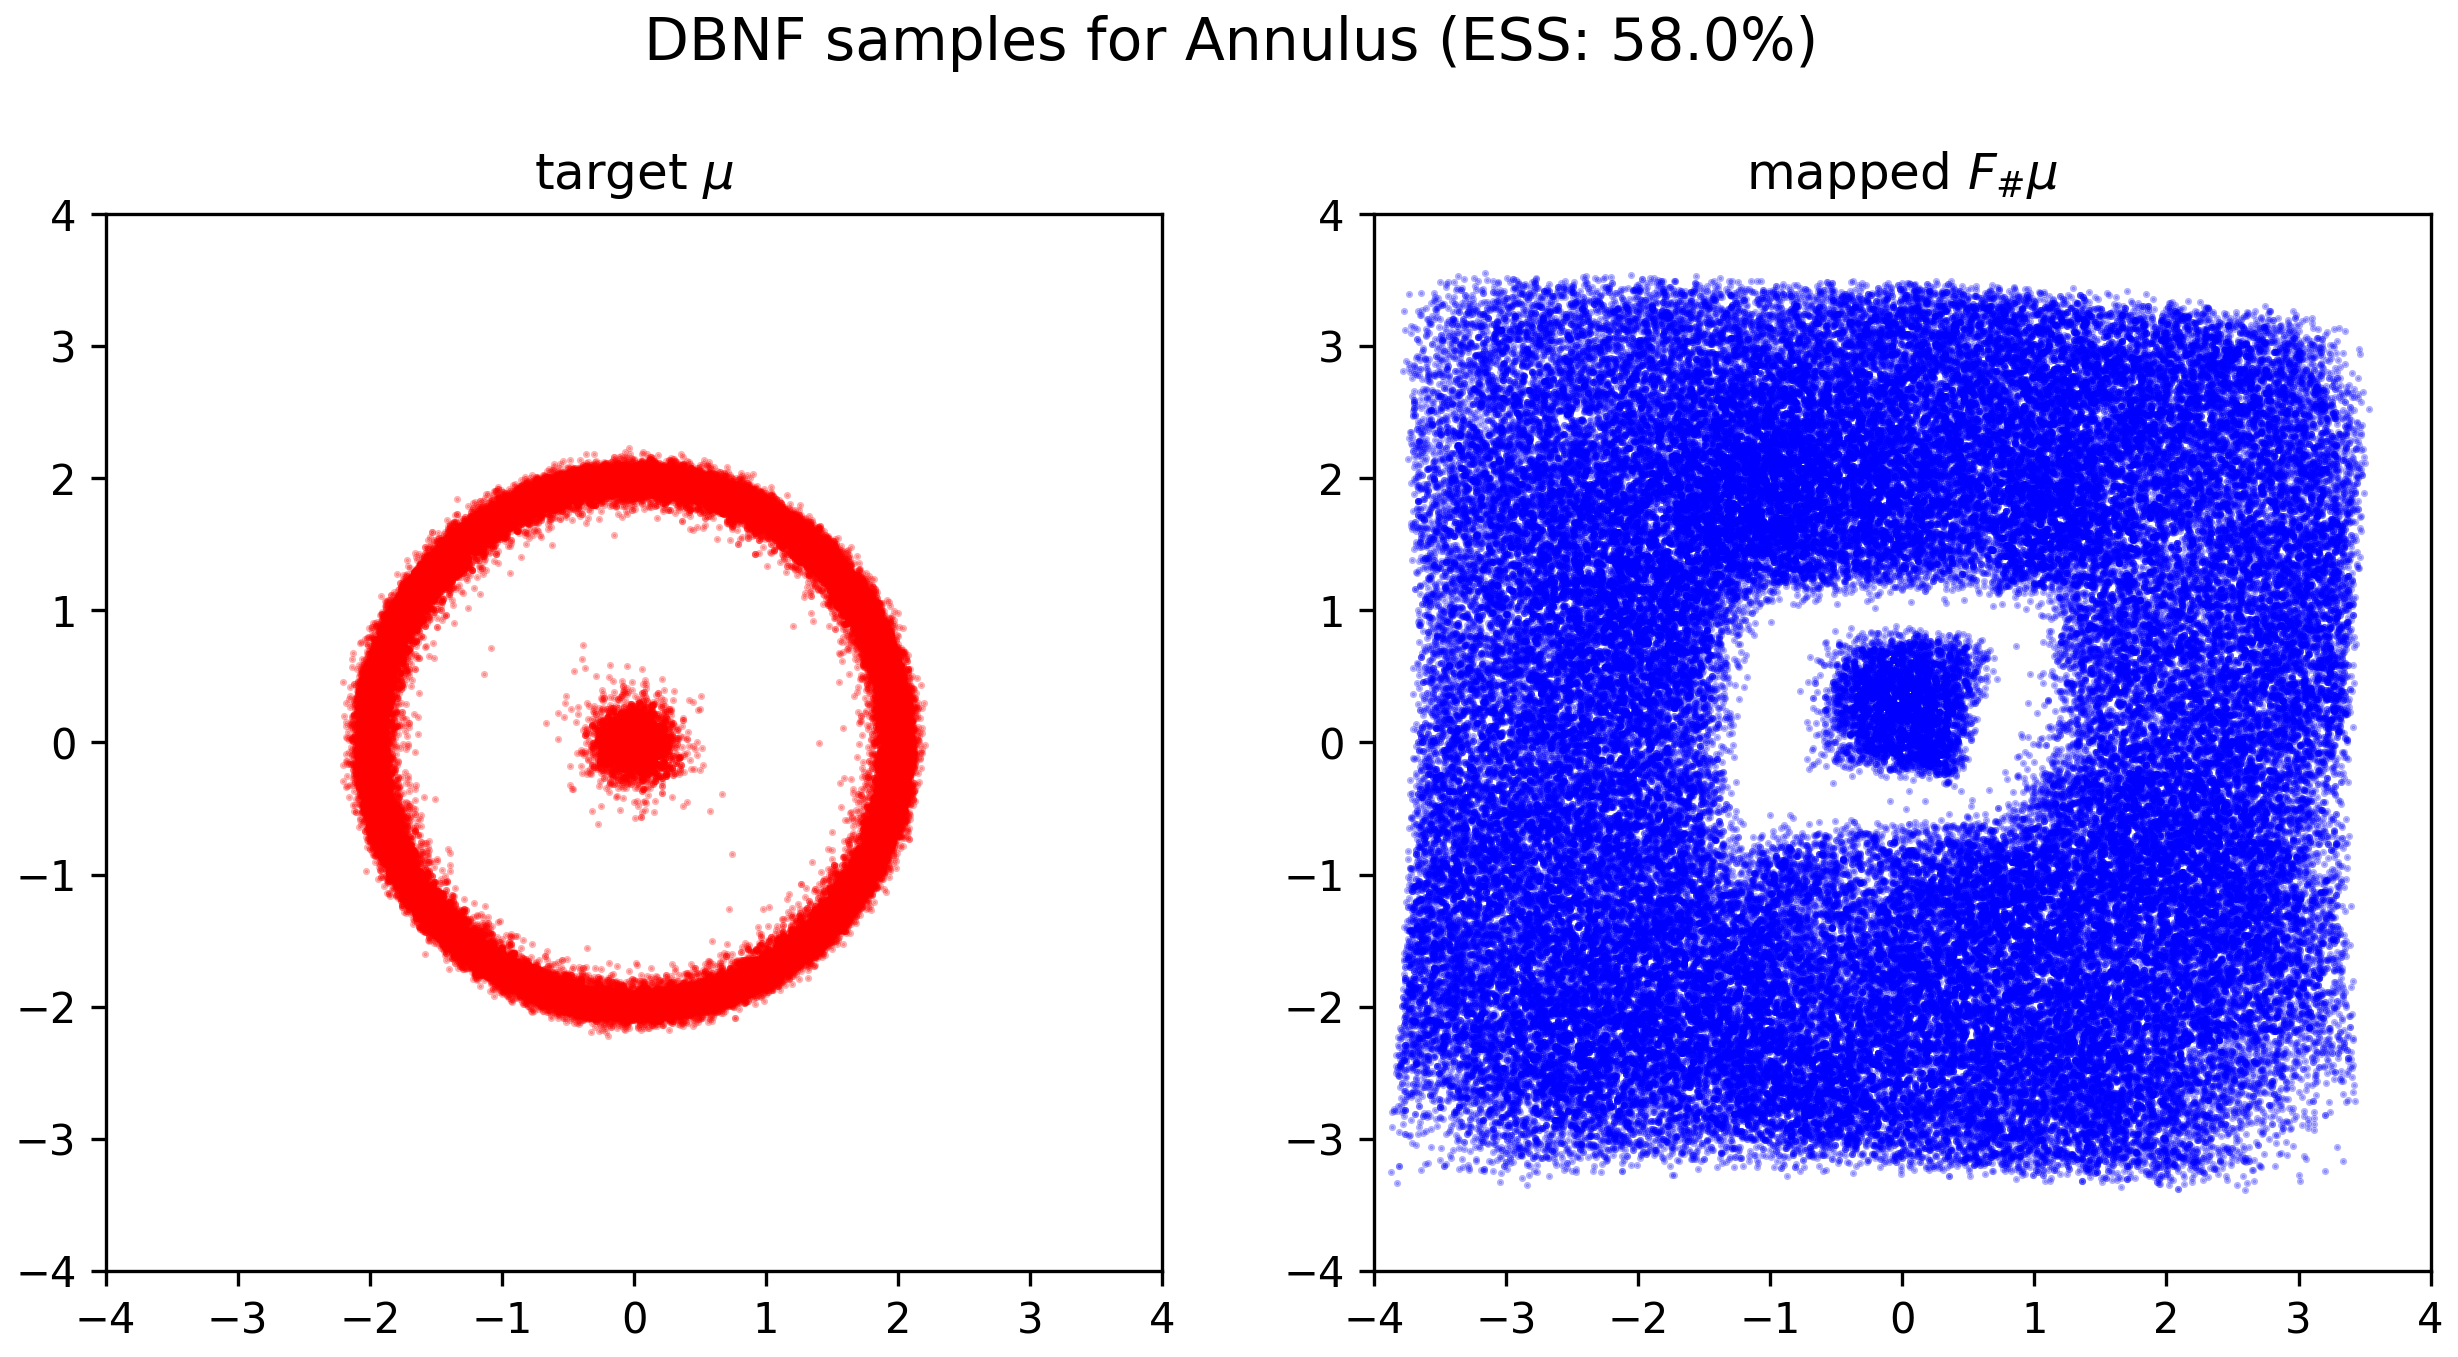
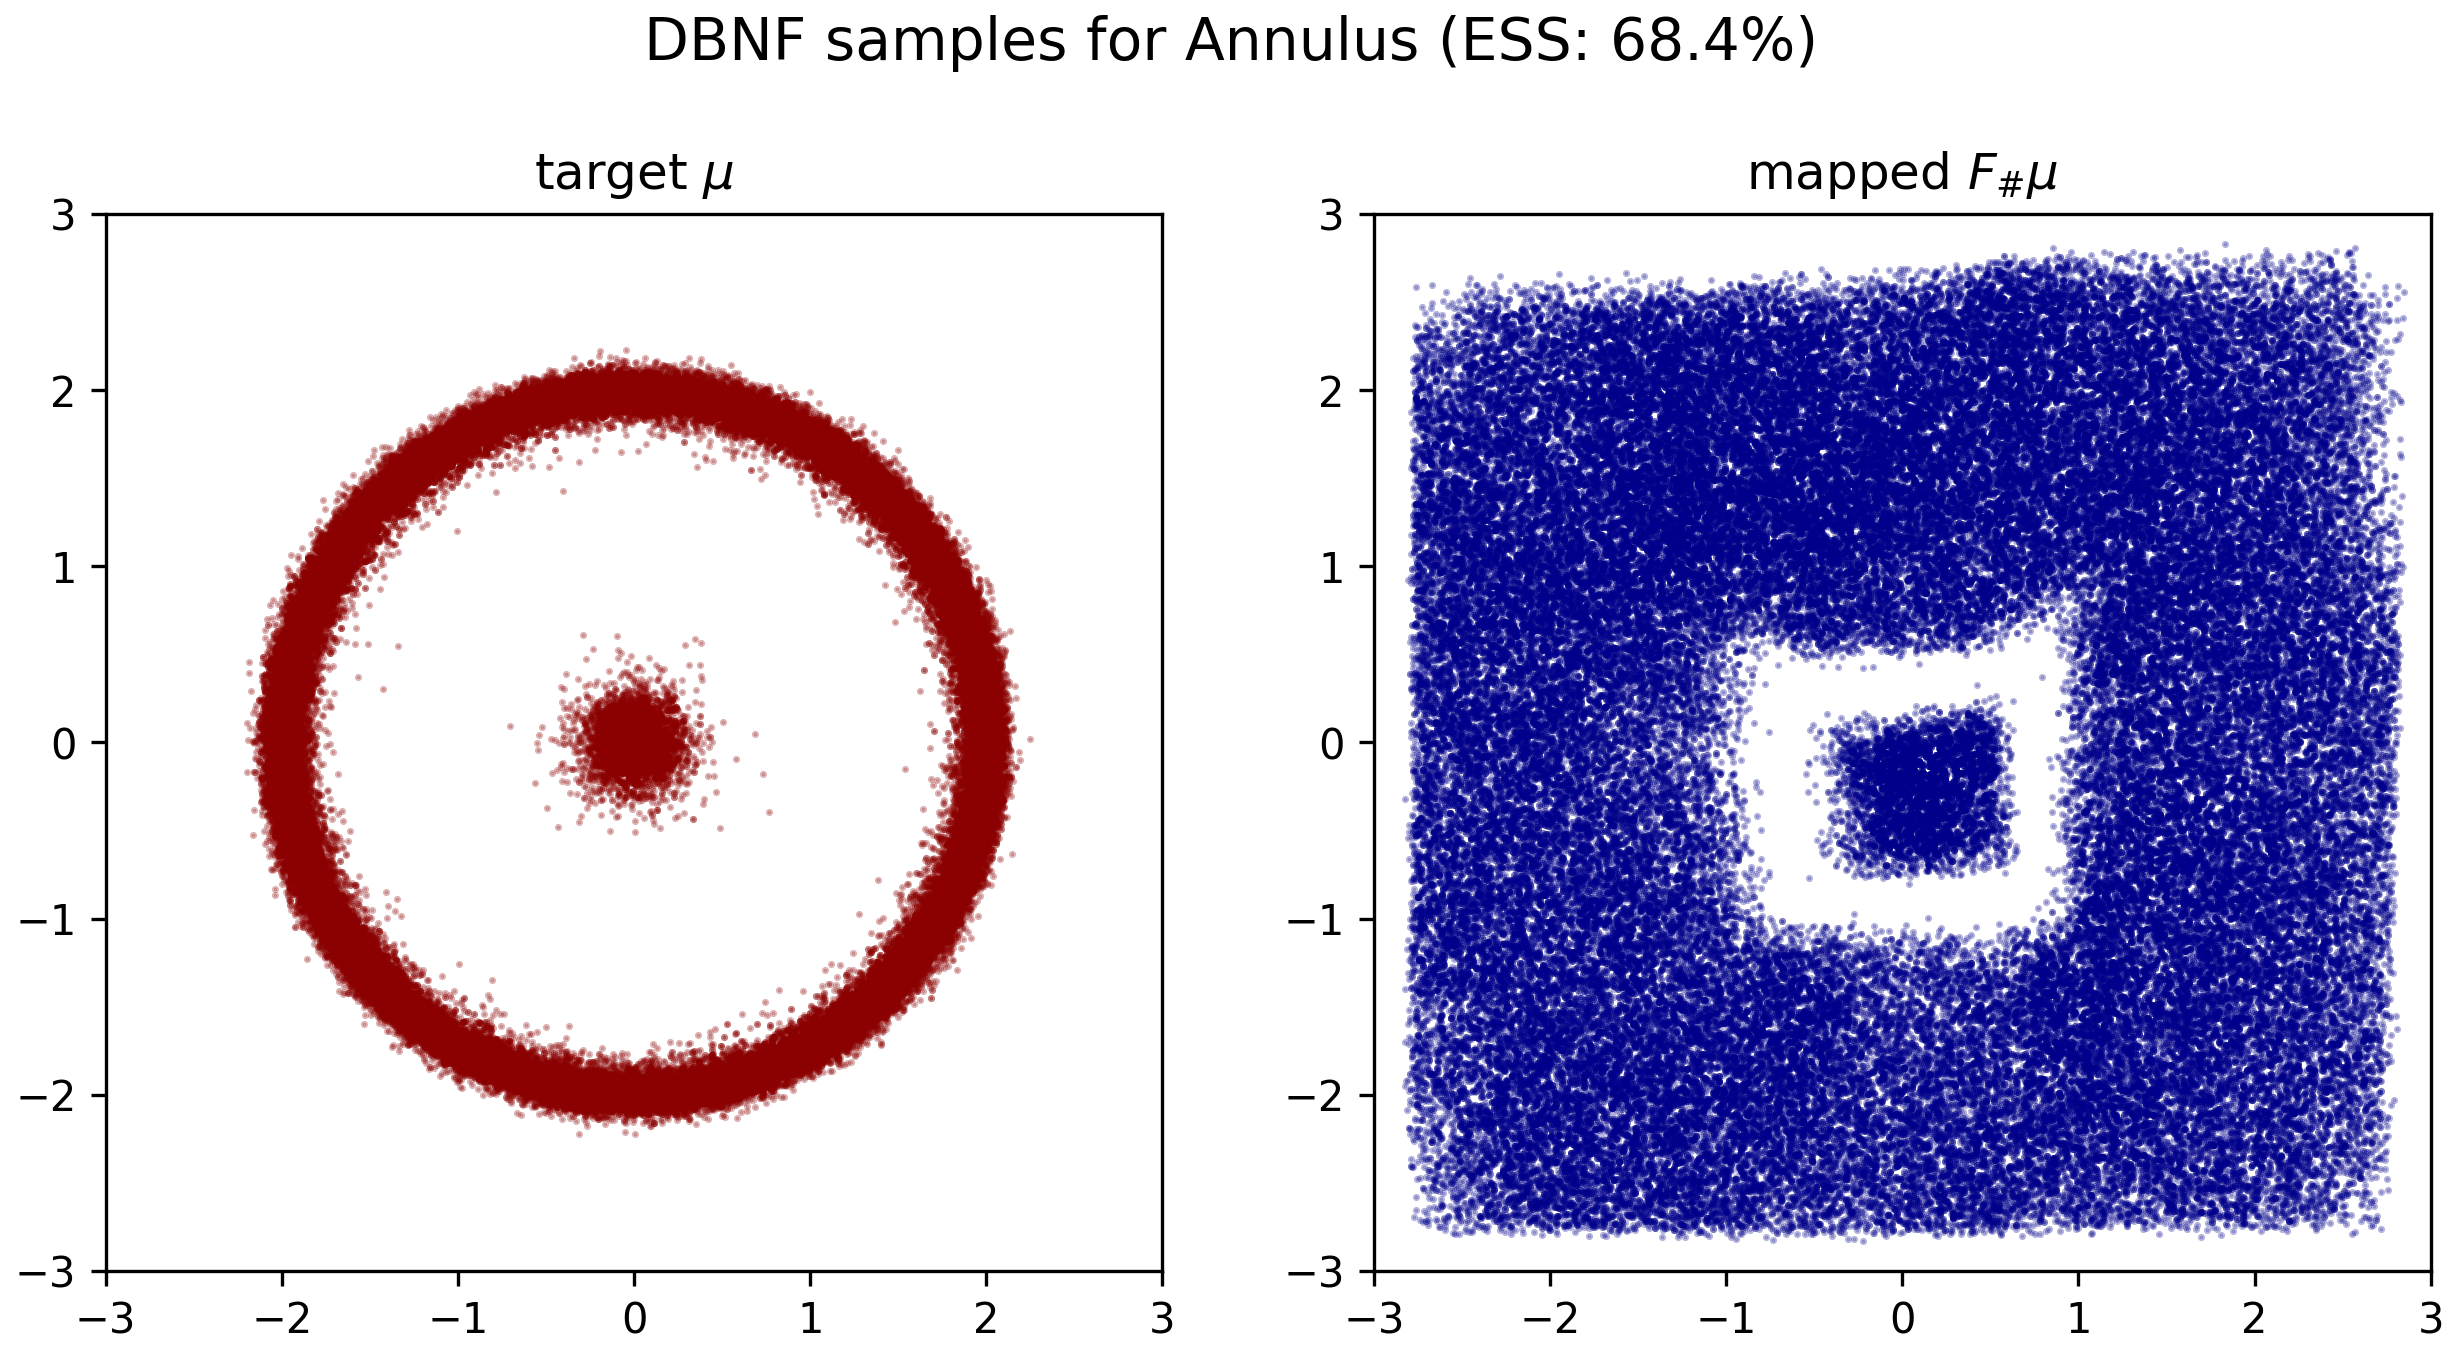
Edit main.tex & Update codes

diff --git a/Codes/2D_Uniform/potential.py b/Codes/2D_Uniform/potential.py
@@ -1,4 +1,3 @@
-import math
 import torch
 
 class Potential:
@@ -33,7 +32,6 @@ class Uniform(Potential):
 
     def samples(self, N: int) -> torch.Tensor:
         return 2 * self.BOUND * torch.rand(N, 2) - self.BOUND
-
     
 class Himmelblau(Potential):
     """Himmelblau's function, a potential function with 4 wells.
@@ -64,7 +62,7 @@ class Annulus(Potential):
     Output:
         V: Tensor [N]
     """
-    BOUND = 4.0
+    BOUND = 3.0
 
     def __str__(self):
         return "Annulus"
@@ -100,29 +98,26 @@ class Three_Well(Potential):
         term3 = torch.sin(x1 + 2 * x2)
         return 3.0 * (term1 + term2 + term3)
     
-class Periodic_Well(Potential):
-    """Periodic_Well potential, a periodic potential with multiple wells.
+class Rosenbrock(Potential):
+    """Rosenbrock potential, a banana-shaped thin distribution
     Input:
         x: Tensor [N, 2]
     Output:
         V: Tensor [N]
     """
-    BOUND = math.pi
+    BOUND = 4.0
 
     def __str__(self):
-        return "Periodic Well"
+        return "Rosenbrock"
     
     def __repr__(self):
-        return "PW"
-
+        return "RB"
+    
     def __call__(self, x: torch.Tensor) -> torch.Tensor:
         x1 = x[:, 0]
         x2 = x[:, 1]
-        sin_2x1 = torch.sin(2 * x1)
-        sin_2x2 = torch.sin(2 * x2)
-        term_y = torch.sign(sin_2x2) * torch.abs(sin_2x2).pow(1.4)
-        return 4.0 * sin_2x1 * term_y
-    
+        return 2 * (x1 - 0.8) ** 2 + 200 * (x2 - 0.6 * x1 ** 2 + 3.5) ** 2
+
 if __name__ == "__main__":
     target = Himmelblau() # choose potential
     BOUND = target.BOUND # get bound

diff --git a/Codes/2D_Uniform/plot_result.py b/Codes/2D_Uniform/plot_result.py
@@ -24,12 +24,12 @@ y_rs  = resample(y,       log_w)
 bound = target.BOUND
 fig, axes = plt.subplots(1, 2, figsize=(10, 5))
 
-axes[0].scatter(x_rs[:, 0].numpy(), x_rs[:, 1].numpy(), s=0.5, c='red', alpha=0.3)
+axes[0].scatter(x_rs[:, 0].numpy(), x_rs[:, 1].numpy(), s=0.5, c='darkred', alpha=0.3)
 axes[0].set_title(r'target $\mu$')
 axes[0].set_xlim(-bound, bound); axes[0].set_ylim(-bound, bound)
 axes[0].set_aspect('equal')
 
-axes[1].scatter(y_rs[:, 0].numpy(), y_rs[:, 1].numpy(), s=0.5, c='blue', alpha=0.3)
+axes[1].scatter(y_rs[:, 0].numpy(), y_rs[:, 1].numpy(), s=0.5, c='darkblue', alpha=0.3)
 axes[1].set_title(r'mapped $F_{\#}\mu$')
 axes[1].set_xlim(-bound, bound); axes[1].set_ylim(-bound, bound)
 axes[1].set_aspect('equal')

diff --git a/Codes/2D_Uniform/parameters.py b/Codes/2D_Uniform/parameters.py
@@ -15,7 +15,7 @@ N_TRAIN =  40000 # number of training samples
 N_VALID = 160000 # number of validation samples
 
 # available potentials
-potential_dict = {'HB': Himmelblau, 'AN': Annulus, 'TW': Three_Well, 'PW': Periodic_Well}
+potential_dict = {'HB': Himmelblau, 'AN': Annulus, 'TW': Three_Well, 'RB': Rosenbrock}
 
 # choice of target potential via command line
 parser = argparse.ArgumentParser()
